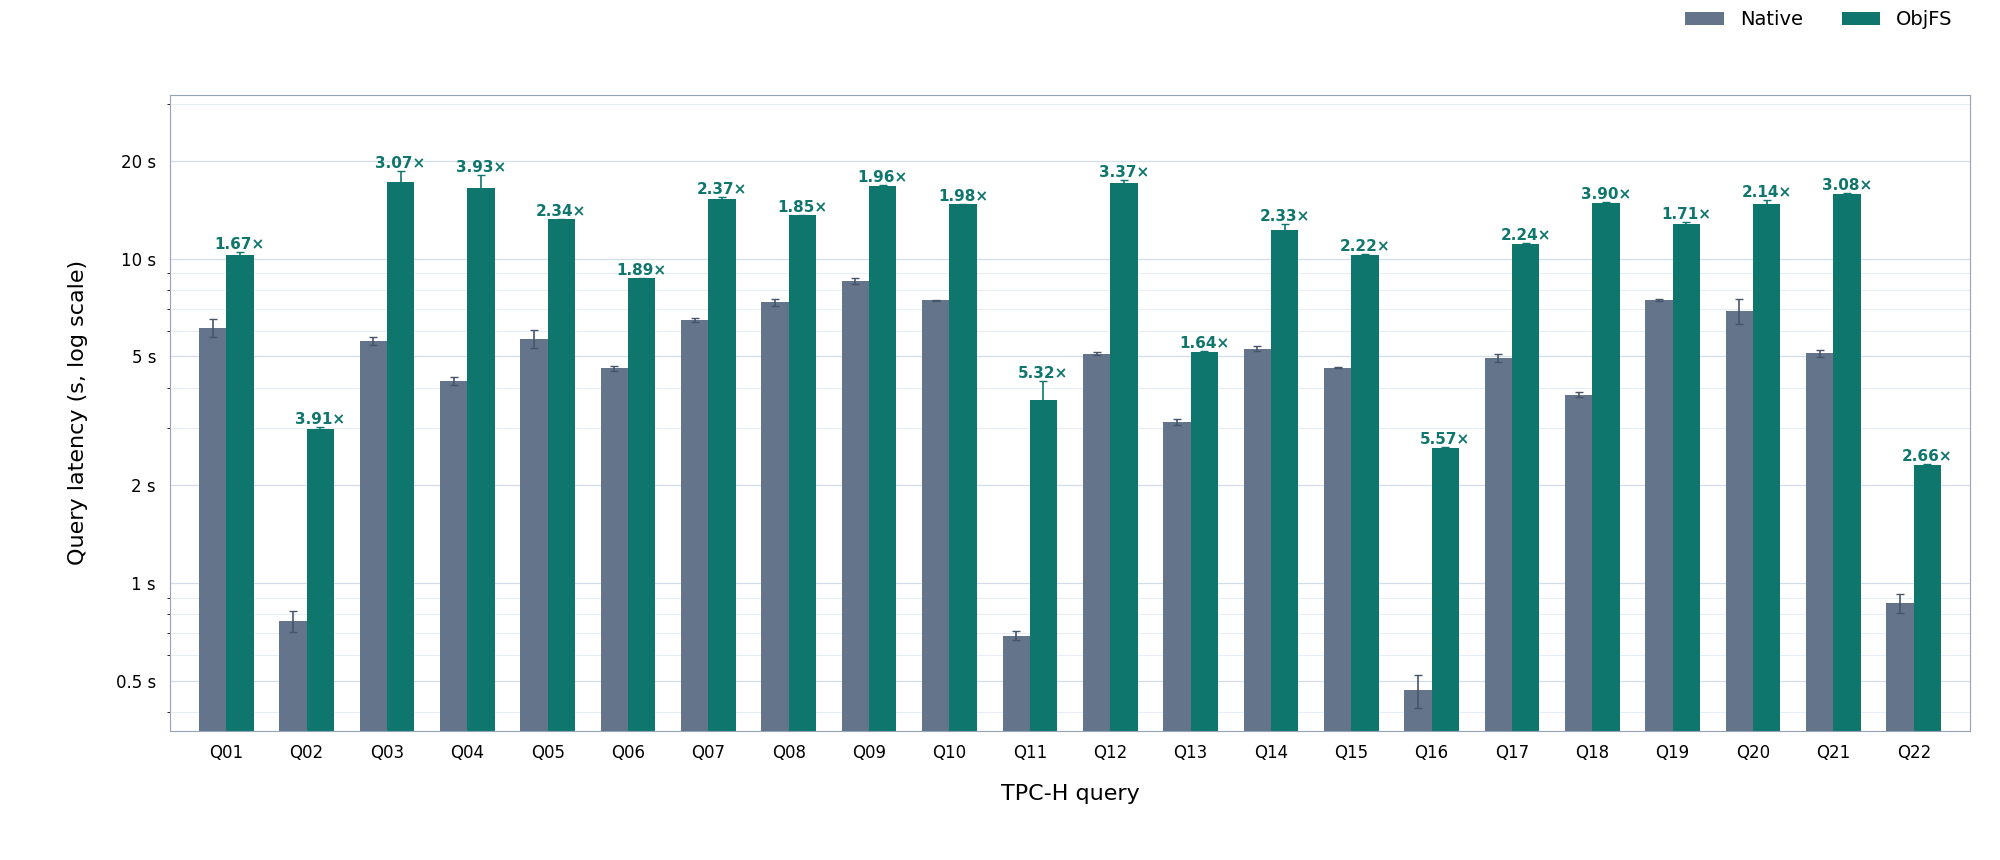
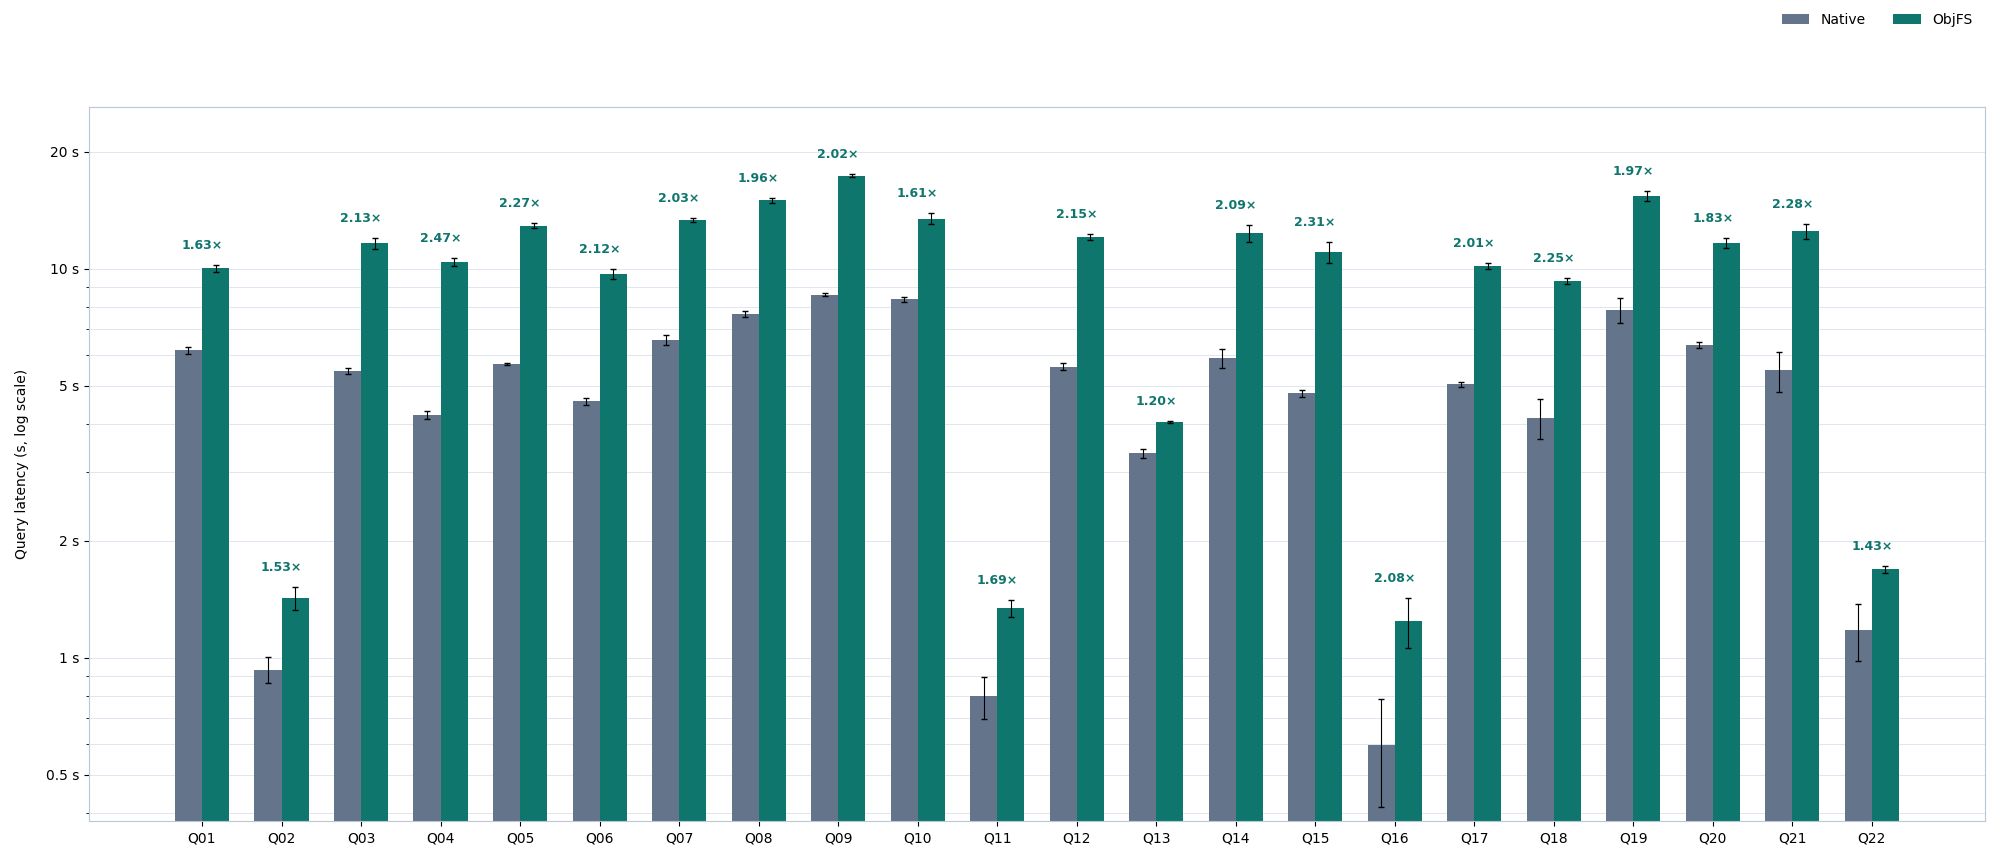
Update S3 read benchmark without persistent cache (#107)

diff --git a/benchmark.md b/benchmark.md
@@ -8,8 +8,8 @@ root.
 ## Read results
 
 Results with DuckDB `v1.5.5` on an Apple M4 (10 cores, 16 GB memory,
-default 10 threads). Local SF10 used commit `21bae82`; remote SF1 used
-`7d4c6c9`. Values below 1.00× favor ObjFS.
+default 10 threads). Local SF10 used commit `21bae82`; remote SF1 ObjFS used
+`c92fc88`. Values below 1.00× favor ObjFS.
 
 ### Local: memory
 
@@ -78,38 +78,37 @@ use `--runs 5` to repeat that count.
 
 ### Remote S3
 
-TPC-H SF1 with three cold executions in independent processes. Native DuckDB
-uses HTTPFS; ObjFS uses memory caches and a new empty persistent-cache directory
-for every process. Bars show medians, whiskers show one sample standard
-deviation, and labels show the ObjFS/native median ratio. The geometric-mean
-query ratio is 2.60×.
+TPC-H SF1, three cold-process runs per query. Native reads through HTTPFS;
+ObjFS uses memory cache with persistent cache disabled. Only query time is
+measured. Bars show medians ± sample standard deviation; labels show the
+ObjFS/native ratio. The two variants were measured sequentially.
 
-![S3 TPC-H query latency](docs/benchmark-results/remote-s3.png)
+![S3 TPC-H query latency without persistent cache](docs/benchmark-results/remote-s3.png)
 
 | Query | Native median ± SD | ObjFS median ± SD | ObjFS/native |
 | --- | ---: | ---: | ---: |
-| Q01 | 6.123 ± 0.388 s | 10.218 ± 0.286 s | 1.67× |
-| Q02 | 763.2 ± 58.0 ms | 2.981 ± 0.047 s | 3.91× |
-| Q03 | 5.587 ± 0.158 s | 17.162 ± 1.392 s | 3.07× |
-| Q04 | 4.188 ± 0.117 s | 16.448 ± 1.650 s | 3.93× |
-| Q05 | 5.653 ± 0.352 s | 13.205 ± 0.070 s | 2.34× |
-| Q06 | 4.584 ± 0.091 s | 8.683 ± 0.056 s | 1.89× |
-| Q07 | 6.461 ± 0.091 s | 15.289 ± 0.225 s | 2.37× |
-| Q08 | 7.336 ± 0.184 s | 13.572 ± 0.060 s | 1.85× |
-| Q09 | 8.528 ± 0.178 s | 16.717 ± 0.147 s | 1.96× |
-| Q10 | 7.426 ± 0.039 s | 14.688 ± 0.080 s | 1.98× |
-| Q11 | 687.7 ± 21.6 ms | 3.656 ± 0.523 s | 5.32× |
-| Q12 | 5.092 ± 0.060 s | 17.147 ± 0.323 s | 3.37× |
-| Q13 | 3.136 ± 0.077 s | 5.140 ± 0.035 s | 1.64× |
-| Q14 | 5.271 ± 0.091 s | 12.279 ± 0.529 s | 2.33× |
-| Q15 | 4.608 ± 0.024 s | 10.220 ± 0.097 s | 2.22× |
-| Q16 | 466.9 ± 55.0 ms | 2.603 ± 0.030 s | 5.57× |
-| Q17 | 4.943 ± 0.140 s | 11.050 ± 0.093 s | 2.24× |
-| Q18 | 3.811 ± 0.058 s | 14.871 ± 0.111 s | 3.90× |
-| Q19 | 7.465 ± 0.060 s | 12.750 ± 0.207 s | 1.71× |
-| Q20 | 6.902 ± 0.608 s | 14.742 ± 0.362 s | 2.14× |
-| Q21 | 5.114 ± 0.130 s | 15.753 ± 0.138 s | 3.08× |
-| Q22 | 868.8 ± 58.4 ms | 2.308 ± 0.026 s | 2.66× |
+| Q01 | 6.166 ± 0.128 s | 10.025 ± 0.212 s | 1.63× |
+| Q02 | 0.933 ± 0.072 s | 1.423 ± 0.098 s | 1.53× |
+| Q03 | 5.458 ± 0.096 s | 11.650 ± 0.373 s | 2.13× |
+| Q04 | 4.210 ± 0.089 s | 10.413 ± 0.240 s | 2.47× |
+| Q05 | 5.693 ± 0.018 s | 12.921 ± 0.223 s | 2.27× |
+| Q06 | 4.566 ± 0.096 s | 9.703 ± 0.300 s | 2.12× |
+| Q07 | 6.568 ± 0.185 s | 13.348 ± 0.171 s | 2.03× |
+| Q08 | 7.654 ± 0.134 s | 14.985 ± 0.198 s | 1.96× |
+| Q09 | 8.581 ± 0.084 s | 17.350 ± 0.149 s | 2.02× |
+| Q10 | 8.344 ± 0.112 s | 13.458 ± 0.456 s | 1.61× |
+| Q11 | 0.796 ± 0.099 s | 1.342 ± 0.068 s | 1.69× |
+| Q12 | 5.606 ± 0.114 s | 12.061 ± 0.234 s | 2.15× |
+| Q13 | 3.354 ± 0.084 s | 4.038 ± 0.015 s | 1.20× |
+| Q14 | 5.898 ± 0.332 s | 12.337 ± 0.589 s | 2.09× |
+| Q15 | 4.784 ± 0.094 s | 11.050 ± 0.686 s | 2.31× |
+| Q16 | 0.598 ± 0.185 s | 1.243 ± 0.181 s | 2.08× |
+| Q17 | 5.049 ± 0.081 s | 10.159 ± 0.190 s | 2.01× |
+| Q18 | 4.136 ± 0.494 s | 9.315 ± 0.154 s | 2.25× |
+| Q19 | 7.826 ± 0.580 s | 15.419 ± 0.438 s | 1.97× |
+| Q20 | 6.376 ± 0.106 s | 11.669 ± 0.328 s | 1.83× |
+| Q21 | 5.482 ± 0.645 s | 12.501 ± 0.544 s | 2.28× |
+| Q22 | 1.178 ± 0.195 s | 1.688 ± 0.034 s | 1.43× |
 
 Local SF10 and remote SF1 are separate runs and should not be compared directly.
 
@@ -179,6 +178,15 @@ The runner creates a unique `benchmarks/<run-id>/` prefix. Native DuckDB runs
 `dbgen` and `CHECKPOINT` locally, then uploads one `.duckdb` file. ObjFS runs
 `dbgen` and `CHECKPOINT` directly against S3, producing multiple objects.
 Each query uses a fresh process and runs three times without a warm-up.
+
+| Reported S3 setting | Value |
+| --- | --- |
+| Client | Taipei; Apple M4, 10 cores, 16 GB RAM |
+| Storage | Same S3 bucket in `ap-east-2` |
+| DuckDB | `v1.5.5`; default 10 threads and memory limit |
+| ObjFS in-memory cache | Data blocks: 512 MiB; metadata: 128 MiB |
+| ObjFS persistent cache | Disabled |
+| Native HTTPFS cache | External file cache enabled; empty in each fresh process |
 
 ```sh
 caffeinate -dimsu python3 scripts/run_read_benchmarks.py \
